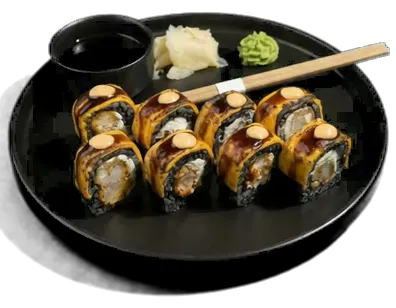
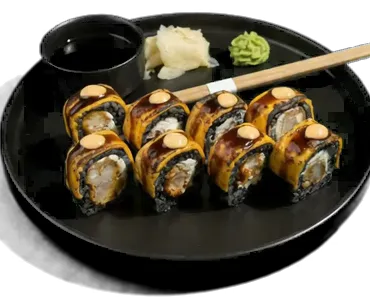
Thumbnails no wider than 6:5, around the dish's weight: chopsticks no longer shrink the dish in the square row

diff --git a/src/lib/clip-worker.js b/src/lib/clip-worker.js
@@ -41,7 +41,13 @@ function dishBox(frame, W, H) {
   for (let y = 0; y < H; y++) for (let x = 0; x < W; x++) if (frame[(y * W + x) * 4 + 3] > 24) { x0 = Math.min(x0, x); x1 = Math.max(x1, x); y0 = Math.min(y0, y); y1 = Math.max(y1, y); }
   if (x1 < x0) return null;
   const m = Math.round(Math.max(x1 - x0, y1 - y0) * .04), l = Math.max(0, x0 - m), t = Math.max(0, y0 - m);
-  return { x: l, y: t, w: Math.min(W, x1 + m + 1) - l, h: Math.min(H, y1 + m + 1) - t };
+  const box = { x: l, y: t, w: Math.min(W, x1 + m + 1) - l, h: Math.min(H, y1 + m + 1) - t }, most = Math.round(box.h * 1.2);
+  if (box.w > most) { // chopsticks and a flat view stretch the box: no wider than 6:5, around where the dish's weight is
+    let sum = 0, mass = 0;
+    for (let y = box.y; y < box.y + box.h; y++) for (let x = box.x; x < box.x + box.w; x++) { const v = frame[(y * W + x) * 4 + 3]; sum += v; mass += v * x; }
+    box.x = Math.max(box.x, Math.min(box.x + box.w - most, Math.round(mass / sum - most / 2))); box.w = most;
+  }
+  return box;
 }
 
 // frame: the fullest one, as the poster; cover: what the list row and the small cards show, trimmed to the dish
